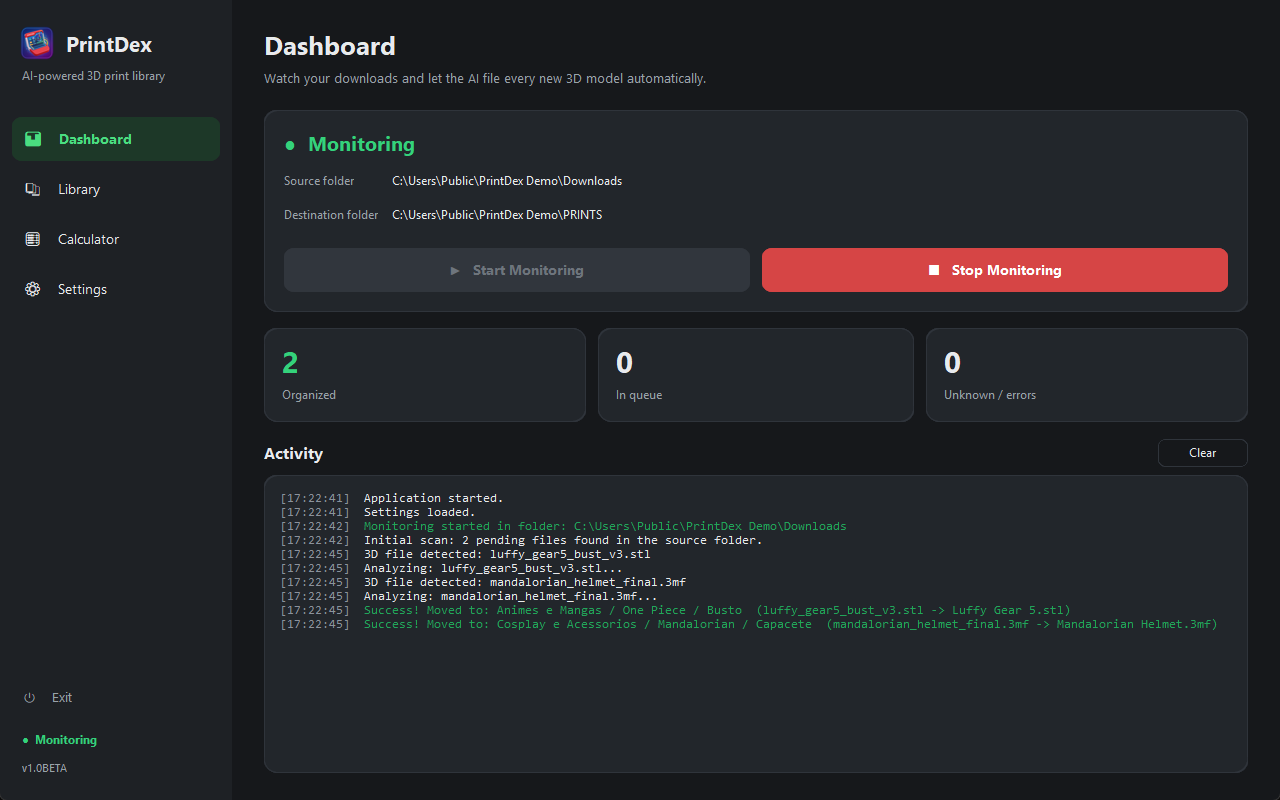
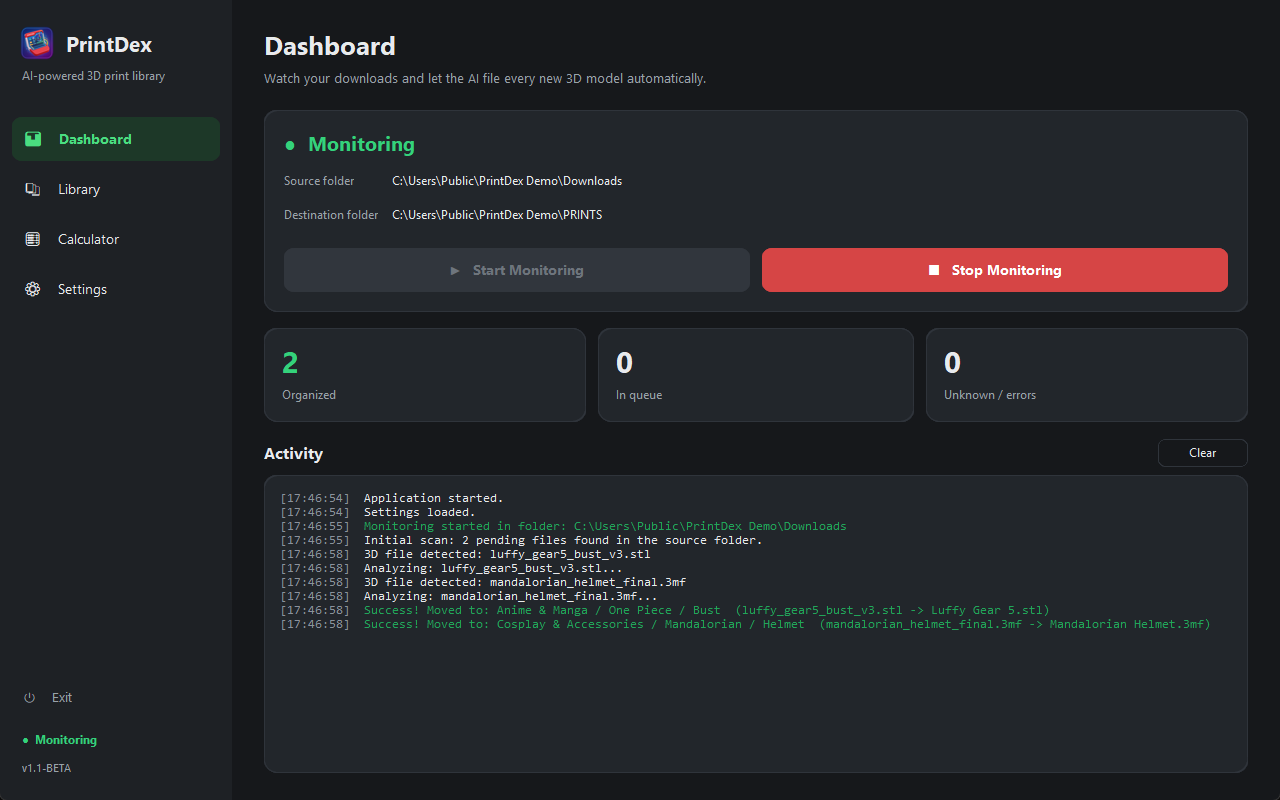
docs: English screenshots and 1.1-BETA changelog
- Recapture README screenshots with the app in English (v1.1-BETA)
- Add CHANGELOG.md (1.0BETA -> 1.1-BETA, EN + PT-BR)
- Add "What's New" / "Novidades" sections to the README

Changed region(s): [[0.4062, 0.75, 0.8438, 0.7812], [0.2188, 0.625, 0.2812, 0.7812], [0.0312, 0.9375, 0.0625, 0.9688]]

diff --git a/CHANGELOG.md b/CHANGELOG.md
@@ -1,0 +1,45 @@
+# Changelog
+
+All notable changes to PrintDex are documented here.
+Format based on [Keep a Changelog](https://keepachangelog.com/en/1.1.0/).
+
+🇧🇷 Versão em português abaixo de cada versão.
+
+## [1.1-BETA] — 2026-10-02 · Hotfix
+
+### Fixed
+- **Folder names now follow the app language.** In 1.0BETA every folder created by the AI was in Portuguese for every user. Now:
+  - **English** (default, also used when the app is in 简体中文): `Anime & Manga`, `Movies & TV Shows`, `Games`, `Utilities & Tools`, `Decoration`, `Automotive`, `Cosplay & Accessories`, `Others`.
+  - **Português (Brasil)**: `Animes e Mangas`, `Filmes e Series`, `Jogos`, `Utilitarios e Ferramentas`, `Decoracao`, `Automotivo`, `Cosplay e Acessorios`, `Outros`.
+- The other folders the app creates are localized too: `Unknown` / `Desconhecidos` (when the AI fails) and `General` / `Geral` (models without a franchise). Item types also follow the language (e.g. `Bust` / `Busto`).
+
+### Changed
+- The category list of the active language is injected into the Gemini prompt and into the response schema (enum) on every request.
+- If the AI answers with a category in the other language (e.g. `Jogos` while the app is in English), it is translated (`Games`) instead of creating a new folder.
+
+### Notes
+- Models already organized by 1.0BETA stay in their folders; only new files use the new names.
+- The 1.1-BETA installer installs over 1.0BETA and keeps your settings and models.
+
+#### 🇧🇷 Em português
+- **Corrigido:** as pastas criadas pela IA ficavam em português para todos os usuários. Agora seguem o idioma do app: inglês por padrão (também com o app em chinês) e português com o app em PT-BR. As pastas de falha (`Unknown`/`Desconhecidos`), de modelo sem franquia (`General`/`Geral`) e os tipos de item (`Bust`/`Busto`) também seguem o idioma.
+- **Alterado:** a lista de categorias do idioma ativo vai no prompt e no schema (enum) de cada requisição; uma categoria que venha no outro idioma é traduzida em vez de virar pasta nova.
+- **Observação:** os modelos já organizados pela 1.0BETA continuam onde estão. O instalador 1.1-BETA instala por cima da 1.0BETA mantendo configurações e modelos.
+
+## [1.0BETA] — 2026-10-02 · First public beta
+
+### Added
+- 🤖 AI auto-organizer (Google Gemini) watching the Downloads folder in real time, with a catch-up scan of files downloaded while the app was closed.
+- 🗂 8 fixed categories → `PRINTS / Category / Franchise / Item type / Clean name.ext`.
+- 🧬 Byte-for-byte deduplication of identical downloads.
+- 🧮 3D print calculator with Simple and Advanced modes.
+- 📚 Visual library with themed icons and a **Local Files** shortcut.
+- 🔔 System tray mode, single-instance protection and first-run setup.
+- 🌍 Interface in English, Português (Brasil) and 简体中文; BRL, USD, EUR and CNY currency formatting; light, dark and system themes.
+- 📦 Windows installer (Inno Setup) with an embedded self-test in every build.
+
+#### 🇧🇷 Em português
+Primeira versão beta pública: organizador automático com IA (Gemini) com varredura inicial, 8 categorias fixas, deduplicação byte a byte, calculadora de impressão 3D (modos Simples e Avançado), biblioteca visual, bandeja do sistema, configuração inicial, três idiomas, quatro moedas, temas e instalador para Windows.
+
+[1.1-BETA]: https://github.com/keven-hatescoding/PrintDex/releases/tag/v1.1-BETA
+[1.0BETA]: https://github.com/keven-hatescoding/PrintDex/releases/tag/v1.0BETA

diff --git a/README.md b/README.md
@@ -17,6 +17,7 @@
 </p>
 
 <p align="center">
+  <a href="#-whats-new">What's New</a> •
   <a href="#-core-features">Features</a> •
   <a href="#-installation--getting-started">Installation</a> •
   <a href="#-how-to-use--first-setup">How to use</a> •
@@ -35,6 +36,16 @@
 </p>
 
 Every week you download dozens of `.stl`, `.3mf` and `.obj` files — and your Downloads folder turns into a graveyard of `final_v2_FIXED (3).stl`. **PrintDex** watches that folder for you, asks Google Gemini what each model is, and files it into a clean, browsable library: **category → franchise → item type**, with a tidy file name. It also tells you how much to charge for each print.
+
+## 📝 What's New
+
+**1.1-BETA** (hotfix) — changes since 1.0BETA:
+
+- 🌍 **Folder names now follow the app language.** In 1.0BETA, every folder created by the AI was in Portuguese, whatever language you used. Now categories, item types and the `Unknown` / `General` folders are created in **English** by default (also when the app is in 简体中文) and in **Portuguese** when the app is set to PT-BR.
+- 🔒 The category list of your language is sent to Gemini and locked in the response schema on every request. If the AI still answers in the other language (e.g. `Jogos` instead of `Games`), PrintDex translates it instead of creating a duplicate folder.
+- ℹ Models already organized by 1.0BETA stay where they are. The new installer upgrades 1.0BETA in place and keeps your settings and library.
+
+Full history: [CHANGELOG.md](CHANGELOG.md).
 
 ## ✨ Core Features
 
@@ -117,6 +128,16 @@ Released under the [MIT License](LICENSE).
 ## O que é o PrintDex
 
 Toda semana você baixa dezenas de arquivos `.stl`, `.3mf` e `.obj`, e a pasta Downloads vira um cemitério de `final_v2_CORRIGIDO (3).stl`. O **PrintDex** vigia essa pasta por você, pergunta ao Google Gemini o que é cada modelo e o arquiva numa biblioteca limpa e navegável: **categoria → franquia → tipo de item**, com um nome de arquivo organizado. E ainda calcula quanto cobrar por cada impressão.
+
+## 📝 Novidades
+
+**1.1-BETA** (hotfix) — o que mudou desde a 1.0BETA:
+
+- 🌍 **Os nomes das pastas agora seguem o idioma do app.** Na 1.0BETA, todas as pastas criadas pela IA ficavam em português, qualquer que fosse o idioma escolhido. Agora as categorias, os tipos de item e as pastas `Desconhecidos` / `Geral` são criadas em **português** com o app em PT-BR e em **inglês** nos demais idiomas (padrão, usado também para o 简体中文).
+- 🔒 A lista de categorias do seu idioma é enviada ao Gemini e travada no schema da resposta a cada requisição. Se ainda assim a IA responder no outro idioma (ex.: `Games` em vez de `Jogos`), o PrintDex traduz em vez de criar uma pasta duplicada.
+- ℹ Os modelos já organizados pela 1.0BETA continuam onde estão. O novo instalador atualiza a 1.0BETA por cima e mantém suas configurações e sua biblioteca.
+
+Histórico completo: [CHANGELOG.md](CHANGELOG.md).
 
 ## ✨ Funcionalidades
 
